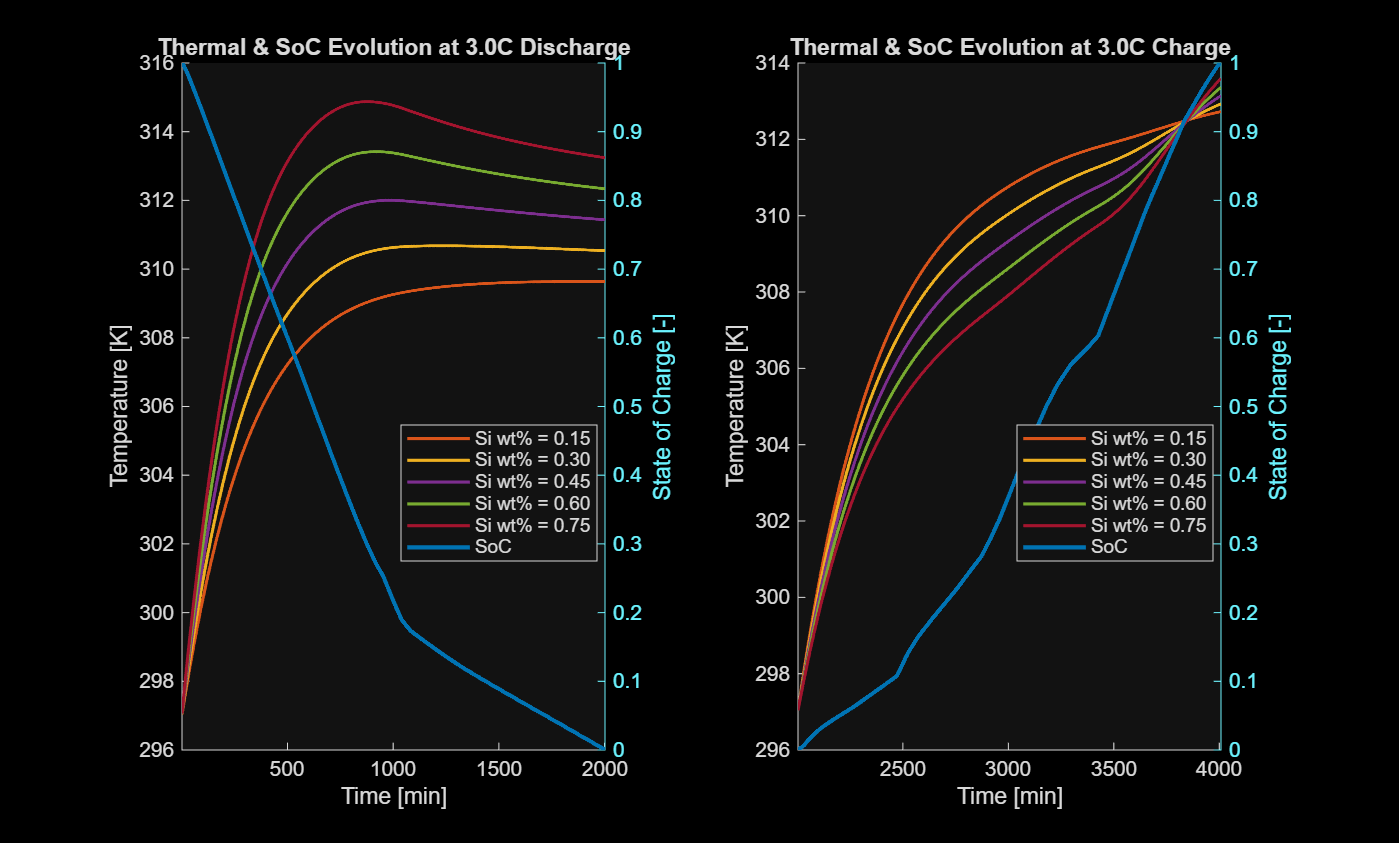
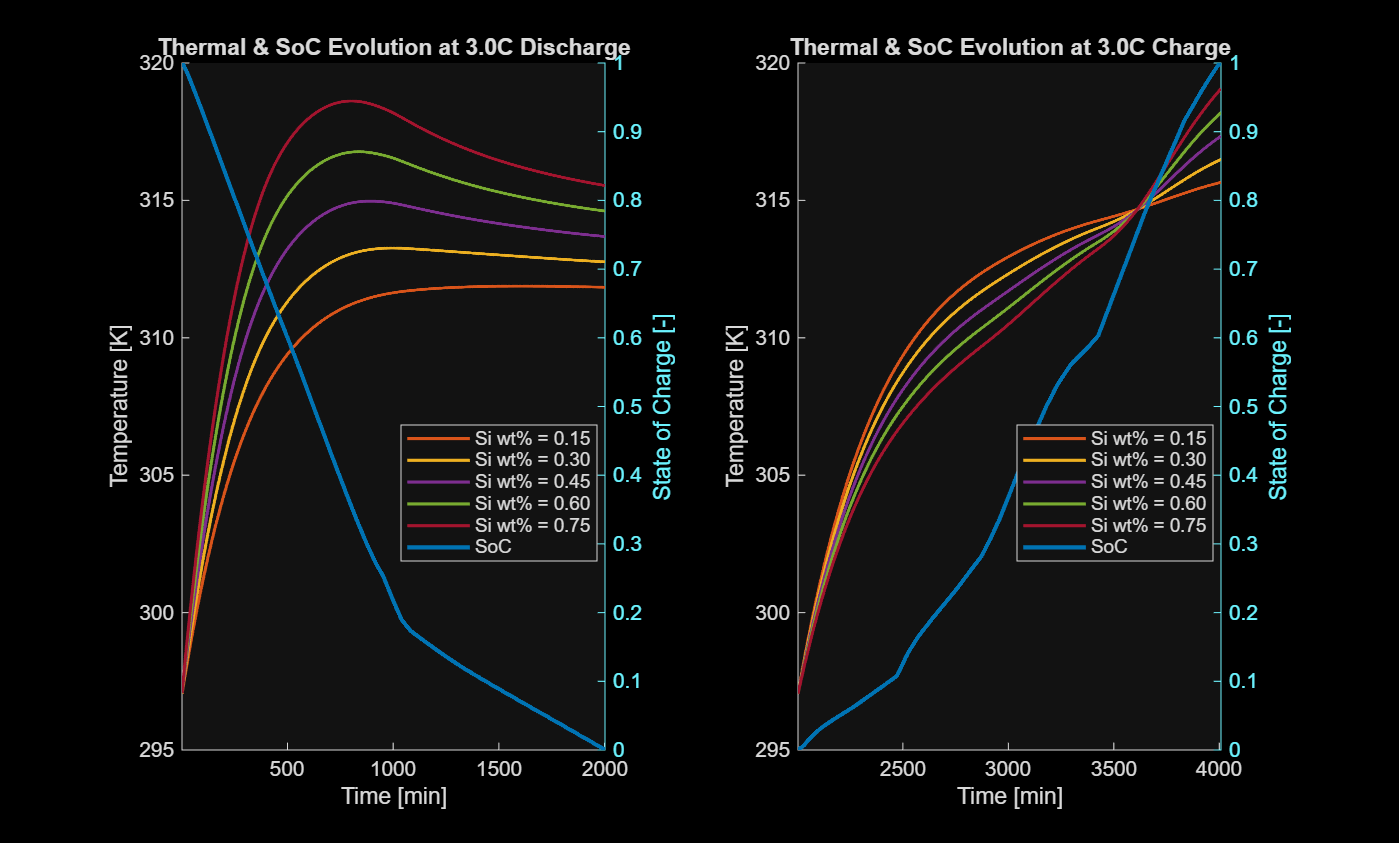
ODE files changed

diff --git a/MATLAB Files/Main Project/Electrical/ECM_term_volt.m b/MATLAB Files/Main Project/Electrical/ECM_term_volt.m
@@ -1,5 +1,14 @@
-% Function that determines the terminal voltage of the volume dependant 2RC
-% Thevian model.
+%##########################################################################
+% ECM_RC_ode:
+%   Author: Joshua Eastgaard
+%   Purpose: Function that determines the terminal voltage of the volume
+%            dependant 2RC Thevian model.
+%   Params: 
+%       - t: Current time step
+%       - U_RC: Array holding calculated RC voltages
+%       - param: 2RC Thev param model holding calculations and params.
+%%
+
 function U_term = ECM_term_volt(t, U_RC, param)
 % U_RC is desinged to be calculated through ODE45 using MATLAB.
 U_RC1 = U_RC(1);

diff --git a/MATLAB Files/Main Project/Electrical/ECM_RC_ode.m b/MATLAB Files/Main Project/Electrical/ECM_RC_ode.m
@@ -1,3 +1,13 @@
+%##########################################################################
+% ECM_RC_ode:
+%   Author: Joshua Eastgaard
+%   Purpose: Provide Volume coupled 2RC voltage calculations for ODE
+%            solver.
+%   Params: 
+%       - t: Current time step
+%       - U_RC: Array holding calculated RC voltages
+%       - param: 2RC Thev param model holding calculations and params.
+%%
 function dx = ECM_RC_ode(t, U_RC, param )
 U_RC1 = U_RC(1);
 U_RC2 = U_RC(2);
